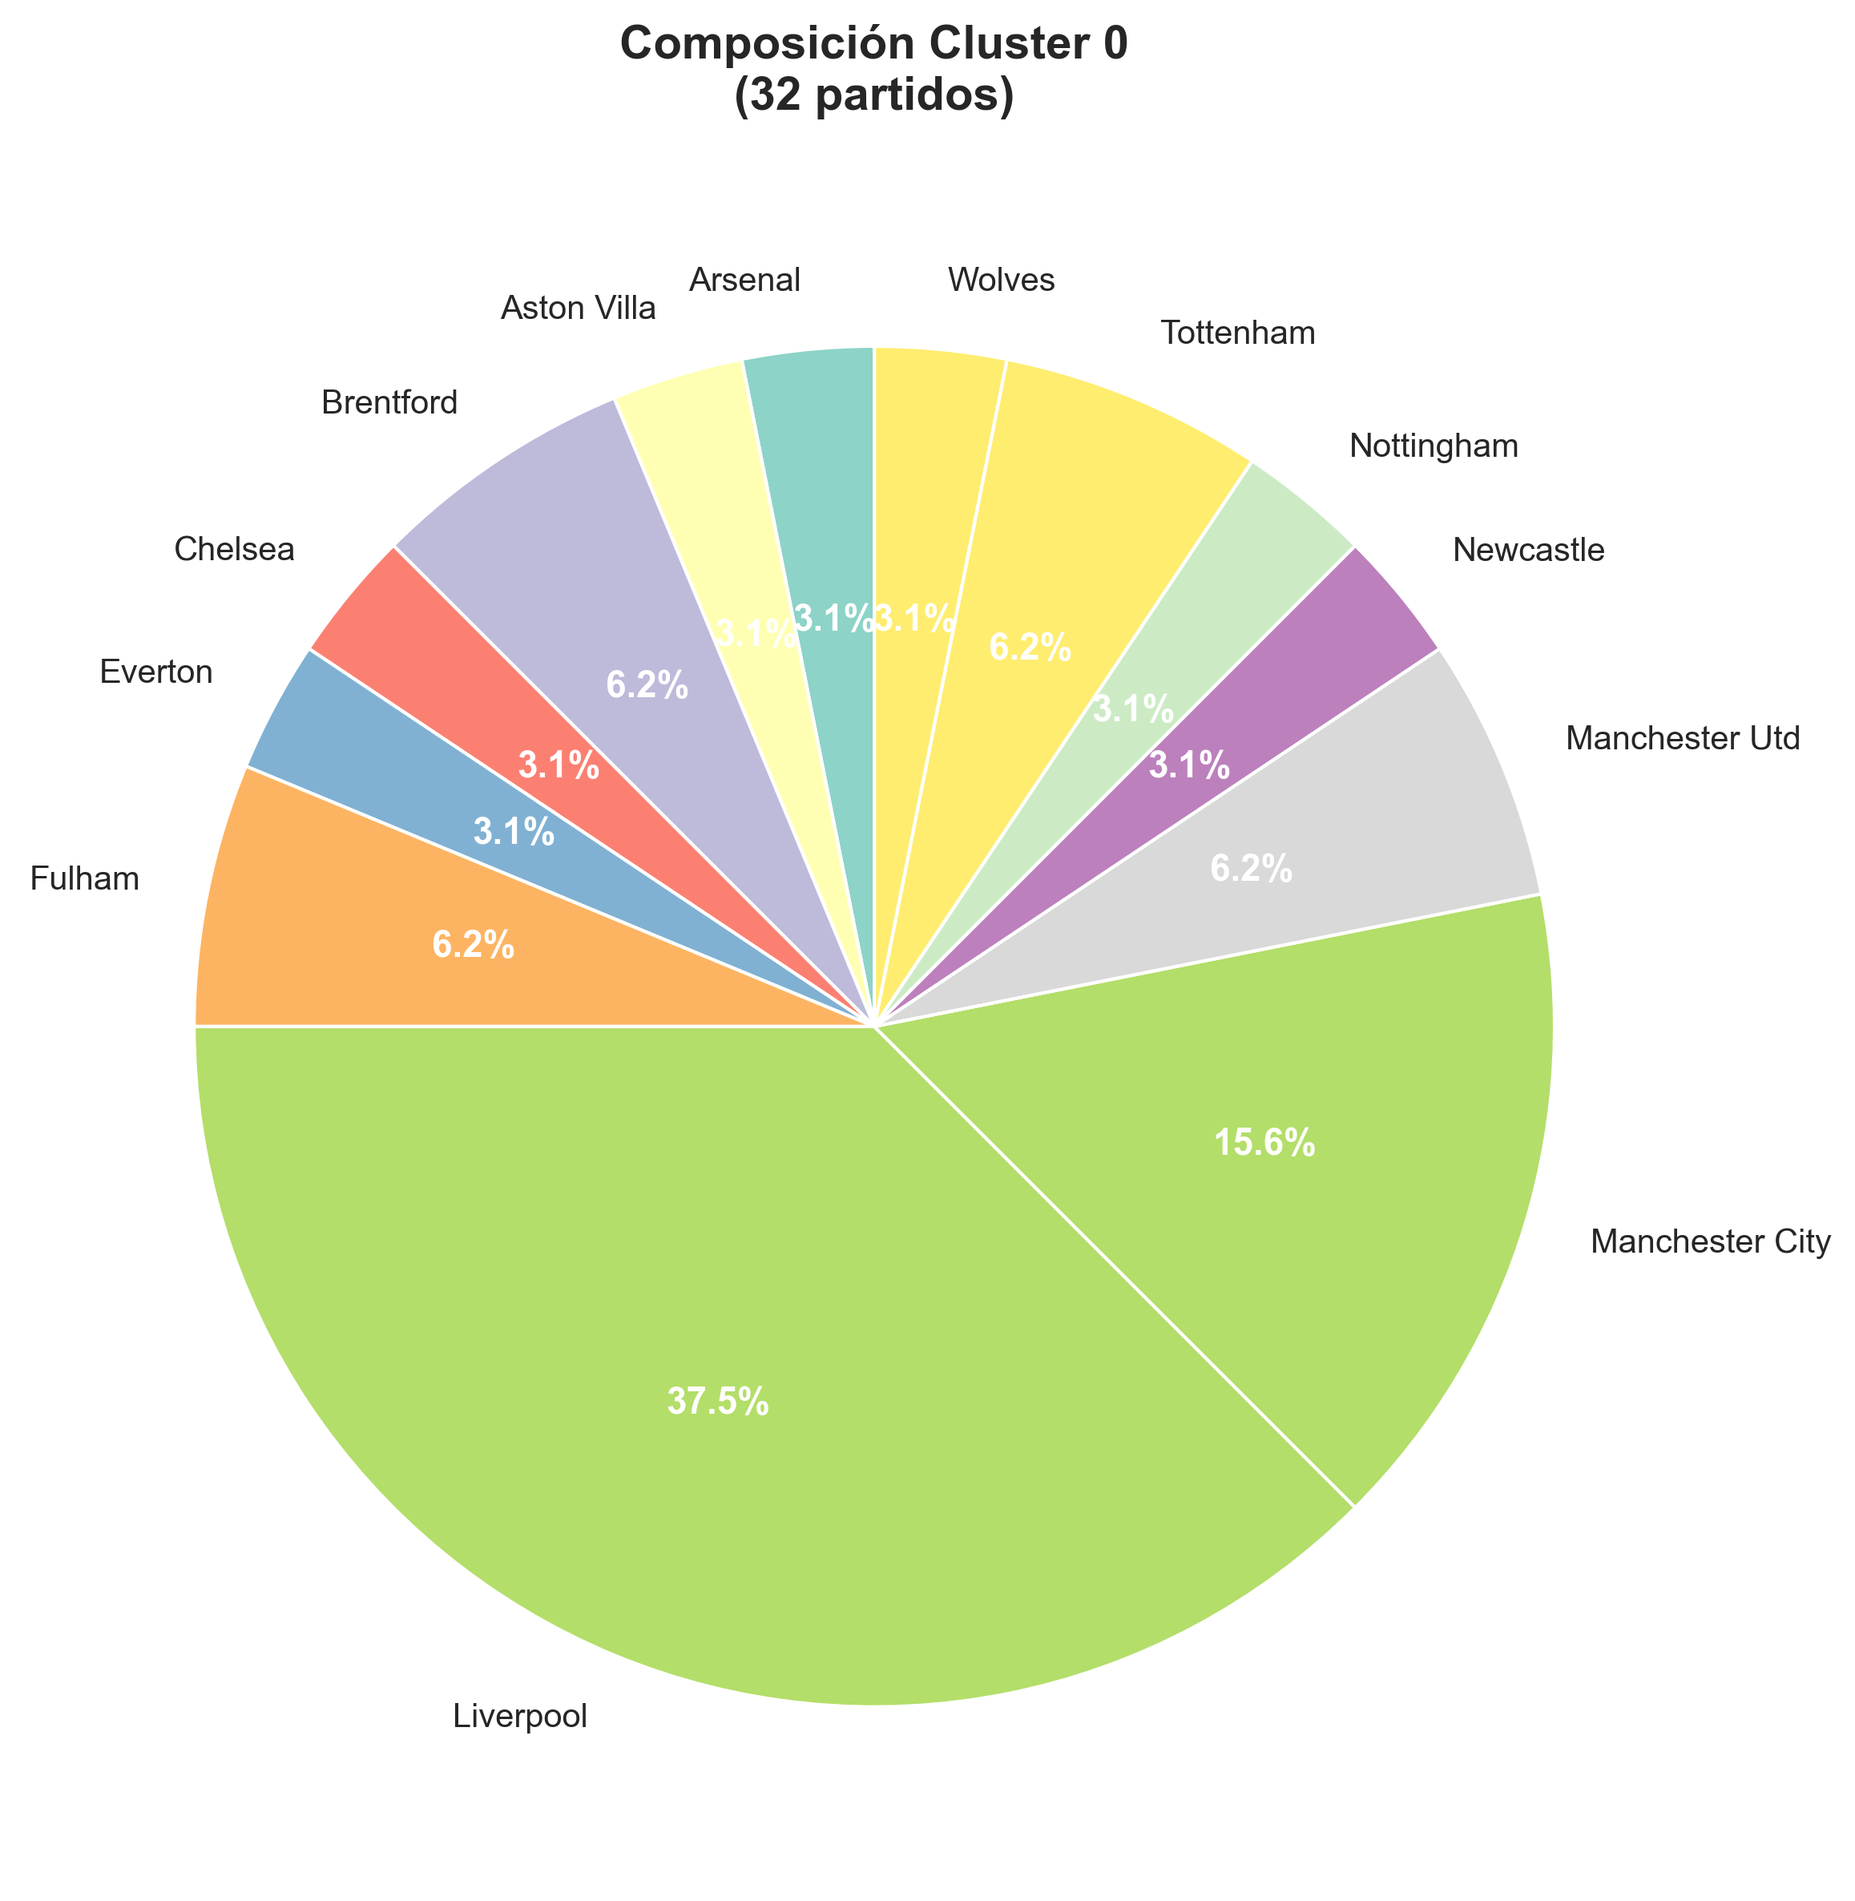
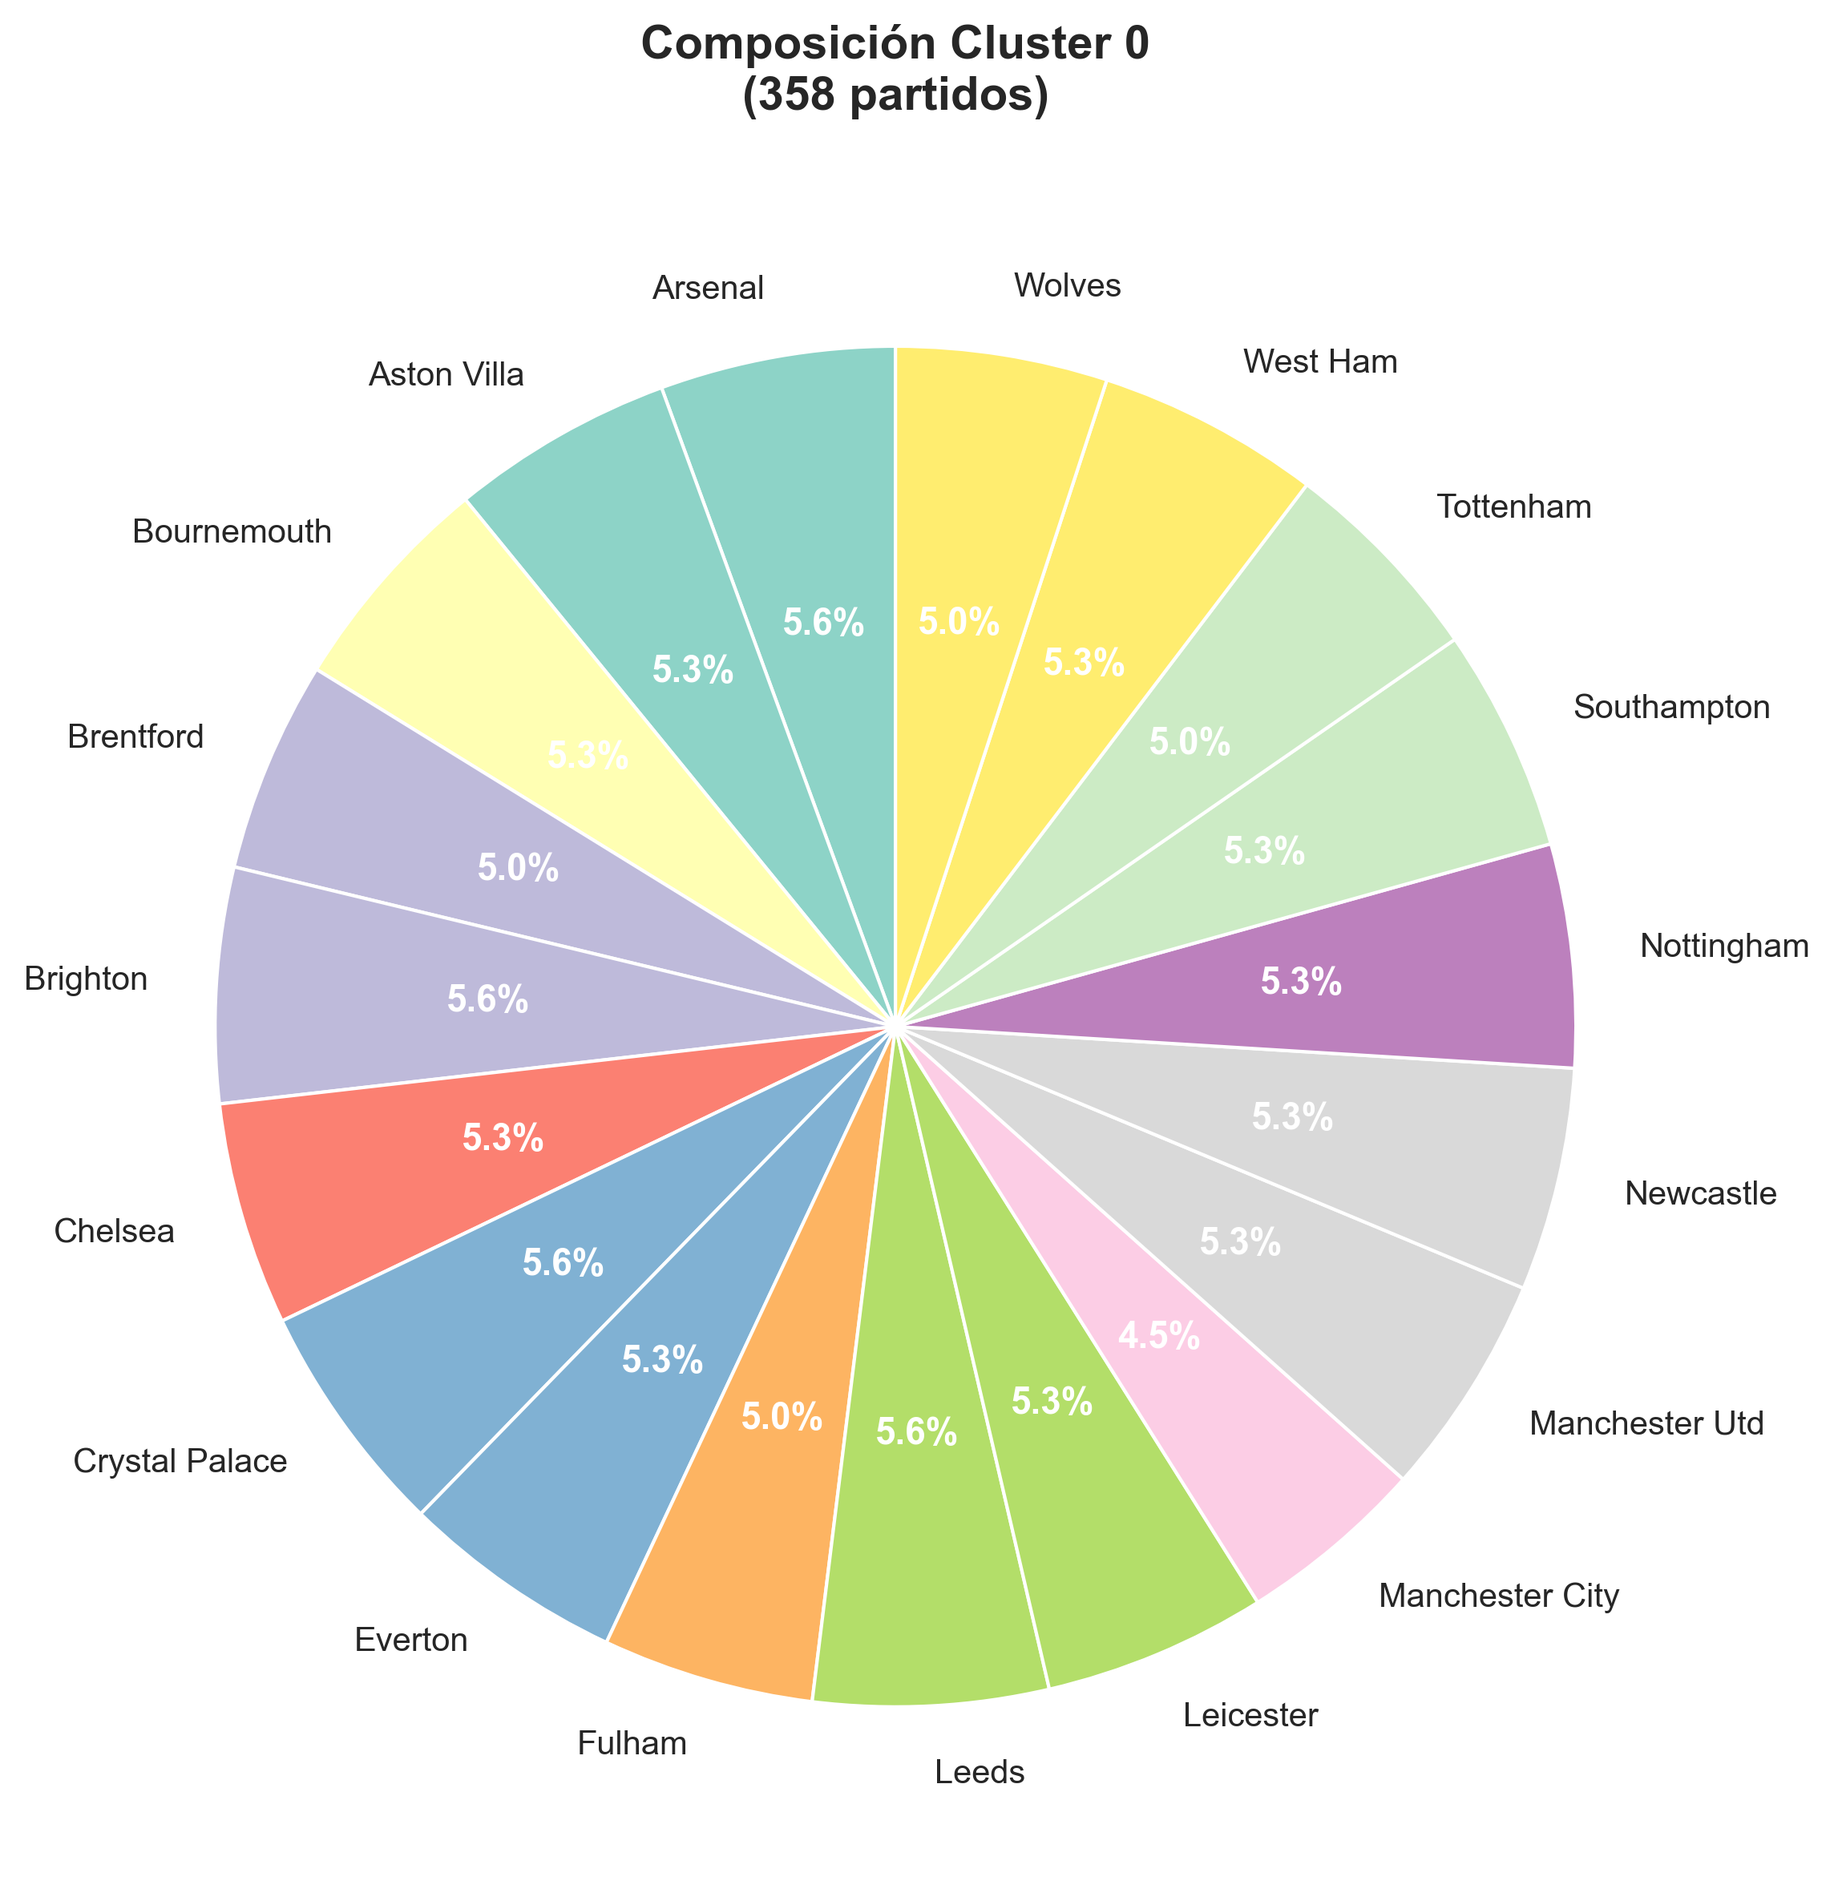
Graficos Arreglados

diff --git a/cluster_analysis_dbscan.py b/cluster_analysis_dbscan.py
@@ -1,0 +1,202 @@
+import pandas as pd
+import matplotlib.pyplot as plt
+import numpy as np
+import os
+
+def analyze_clusters_dbscan():
+    """
+    Analiza las características principales de cada cluster de partidos para DBSCAN.
+    """
+    
+    # Leer datos de DBSCAN (usar 0.9 PCA que tiene cluster -1)
+    df = pd.read_csv('data/clustered_matches_dbscan_0_9_PCA.csv')
+    stats_df = pd.read_csv('data/second_round_with_stats.csv')
+    merged_df = df.merge(stats_df, on=['home_team', 'away_team'], how='left')
+    
+    # Incluir todos los clusters, incluyendo ruido (-1)
+    all_clusters = sorted(df['cluster'].unique())
+    
+    print("=" * 80)
+    print("ANÁLISIS DE CARACTERÍSTICAS POR CLUSTER - DBSCAN")
+    print("=" * 80)
+    
+    # Almacenar datos para el gráfico
+    cluster_data = {}
+    
+    # Analizar cada cluster, incluyendo ruido (-1)
+    for cluster in all_clusters:
+        cluster_matches = merged_df[merged_df['cluster'] == cluster]
+        
+        # Calcular 4 características principales
+        total_goals = (cluster_matches['goals_self_home'] + cluster_matches['goals_rival_home']).mean()
+        possession_diff = abs(cluster_matches['avg_posesion_self_home'] - cluster_matches['avg_posesion_rival_home']).mean()
+        total_shots = cluster_matches['tiros_al_arcototales_home'].mean()
+        # Posesión promedio del equipo local
+        possession_avg = cluster_matches['avg_posesion_self_home'].mean()
+        
+        # Guardar datos
+        cluster_data[cluster] = {
+            'total_matches': len(cluster_matches),
+            'total_goals': total_goals,
+            'possession_diff': possession_diff,
+            'total_shots': total_shots,
+            'possession_avg': possession_avg
+        }
+        
+        # Etiqueta para el cluster
+        if cluster == -1:
+            cluster_label = "RUIDO (Outliers)"
+        else:
+            cluster_label = f"CLUSTER {cluster}"
+        
+        print(f"\n{cluster_label}")
+        print("-" * 60)
+        print(f"Total de partidos: {len(cluster_matches)}")
+        print()
+        
+        # Característica 1: Goles promedio
+        print(f"1. Goles promedio por partido: {total_goals:.2f}")
+        if total_goals >= 3.0:
+            print(f"   Partidos con alta producción ofensiva")
+        elif total_goals >= 2.0:
+            print(f"   Partidos con producción ofensiva moderada")
+        else:
+            print(f"   Partidos con baja producción ofensiva")
+        print()
+        
+        # Característica 2: Diferencia de posesión
+        print(f"2. Diferencia de posesión promedio: {possession_diff:.2f}%")
+        if possession_diff >= 15:
+            print(f"   Partidos con dominio claro de un equipo")
+        elif possession_diff >= 8:
+            print(f"   Partidos con ligera ventaja en posesión")
+        else:
+            print(f"   Partidos equilibrados en posesión")
+        print()
+        
+        # Característica 3: Tiros totales
+        print(f"3. Tiros al arco promedio: {total_shots:.2f}")
+        if total_shots >= 15:
+            print(f"   Partidos con alta intensidad ofensiva")
+        elif total_shots >= 10:
+            print(f"   Partidos con intensidad ofensiva media")
+        else:
+            print(f"   Partidos con baja intensidad ofensiva")
+        print()
+        
+        # Característica 4: Posesión promedio
+        print(f"4. Posesión promedio del equipo local: {possession_avg:.2f}%")
+        if possession_avg >= 55:
+            print(f"   Partidos con dominio de posesión del equipo local")
+        elif possession_avg >= 45:
+            print(f"   Partidos con posesión equilibrada")
+        else:
+            print(f"   Partidos con menor posesión del equipo local")
+        
+        print()
+    
+    return cluster_data, merged_df
+
+def create_individual_characteristic_plots_dbscan(cluster_data):
+    """
+    Crea gráficos individuales para cada característica en una carpeta separada para DBSCAN.
+    """
+    
+    # Crear directorio para los gráficos individuales de DBSCAN
+    os.makedirs('plots/caracteristicas_individuales', exist_ok=True)
+    
+    clusters = sorted(cluster_data.keys())
+    # Crear etiquetas, mostrando "Ruido" para cluster -1
+    cluster_labels = [f'Ruido' if c == -1 else f'Cluster {c}' for c in clusters]
+    
+    # Extraer datos
+    goals = [cluster_data[c]['total_goals'] for c in clusters]
+    possession_diff = [cluster_data[c]['possession_diff'] for c in clusters]
+    shots = [cluster_data[c]['total_shots'] for c in clusters]
+    possession_avg = [cluster_data[c]['possession_avg'] for c in clusters]
+    
+    # Colores: usar gris para ruido, otros colores para clusters normales
+    colors = []
+    for c in clusters:
+        if c == -1:
+            colors.append('#808080')  # Gris para ruido
+        else:
+            colors.append(['#FF6B6B', '#4ECDC4', '#45B7D1', '#96CEB4', '#FFEAA7'][c % 5])
+    
+    # 1. Gráfico de Goles promedio
+    fig, ax = plt.subplots(figsize=(10, 6))
+    bars = ax.bar(cluster_labels, goals, color=colors[:len(clusters)])
+    ax.set_title('Goles Promedio por Partido - DBSCAN', fontweight='bold', fontsize=14)
+    ax.set_xlabel('Cluster', fontsize=12)
+    ax.set_ylabel('Goles', fontsize=12)
+    ax.grid(axis='y', alpha=0.3)
+    for bar, val in zip(bars, goals):
+        ax.text(bar.get_x() + bar.get_width()/2, bar.get_height() + 0.05, 
+                f'{val:.2f}', ha='center', va='bottom', fontsize=10, fontweight='bold')
+    plt.tight_layout()
+    plt.savefig('plots/caracteristicas_individuales/1_goles_promedio_dbscan.png', dpi=300, bbox_inches='tight')
+    plt.close()
+    
+    # 2. Gráfico de Diferencia de posesión
+    fig, ax = plt.subplots(figsize=(10, 6))
+    bars = ax.bar(cluster_labels, possession_diff, color=colors[:len(clusters)])
+    ax.set_title('Diferencia de Posesión Promedio - DBSCAN', fontweight='bold', fontsize=14)
+    ax.set_xlabel('Cluster', fontsize=12)
+    ax.set_ylabel('Diferencia (%)', fontsize=12)
+    ax.grid(axis='y', alpha=0.3)
+    for bar, val in zip(bars, possession_diff):
+        ax.text(bar.get_x() + bar.get_width()/2, bar.get_height() + 0.3, 
+                f'{val:.2f}', ha='center', va='bottom', fontsize=10, fontweight='bold')
+    plt.tight_layout()
+    plt.savefig('plots/caracteristicas_individuales/2_diferencia_posesion_dbscan.png', dpi=300, bbox_inches='tight')
+    plt.close()
+    
+    # 3. Gráfico de Tiros al arco
+    fig, ax = plt.subplots(figsize=(10, 6))
+    bars = ax.bar(cluster_labels, shots, color=colors[:len(clusters)])
+    ax.set_title('Tiros al Arco Promedio - DBSCAN', fontweight='bold', fontsize=14)
+    ax.set_xlabel('Cluster', fontsize=12)
+    ax.set_ylabel('Tiros', fontsize=12)
+    ax.grid(axis='y', alpha=0.3)
+    for bar, val in zip(bars, shots):
+        ax.text(bar.get_x() + bar.get_width()/2, bar.get_height() + 0.1, 
+                f'{val:.2f}', ha='center', va='bottom', fontsize=10, fontweight='bold')
+    plt.tight_layout()
+    plt.savefig('plots/caracteristicas_individuales/3_tiros_al_arco_dbscan.png', dpi=300, bbox_inches='tight')
+    plt.close()
+    
+    # 4. Gráfico de Posesión promedio
+    fig, ax = plt.subplots(figsize=(10, 6))
+    bars = ax.bar(cluster_labels, possession_avg, color=colors[:len(clusters)])
+    ax.set_title('Posesión Promedio del Equipo Local - DBSCAN', fontweight='bold', fontsize=14)
+    ax.set_xlabel('Cluster', fontsize=12)
+    ax.set_ylabel('Posesión (%)', fontsize=12)
+    ax.grid(axis='y', alpha=0.3)
+    for bar, val in zip(bars, possession_avg):
+        ax.text(bar.get_x() + bar.get_width()/2, bar.get_height() + 0.5, 
+                f'{val:.2f}', ha='center', va='bottom', fontsize=10, fontweight='bold')
+    plt.tight_layout()
+    plt.savefig('plots/caracteristicas_individuales/4_posesion_dbscan.png', dpi=300, bbox_inches='tight')
+    plt.close()
+    
+    print("\n" + "=" * 80)
+    print("GRÁFICOS INDIVIDUALES GENERADOS - DBSCAN")
+    print("=" * 80)
+    print("Carpeta: plots/caracteristicas_individuales/")
+    print("  - 1_goles_promedio_dbscan.png")
+    print("  - 2_diferencia_posesion_dbscan.png")
+    print("  - 3_tiros_al_arco_dbscan.png")
+    print("  - 4_posesion_dbscan.png")
+    print("=" * 80)
+
+if __name__ == "__main__":
+    print("INICIANDO ANÁLISIS DE CLUSTERS - DBSCAN...")
+    print()
+    
+    cluster_data, merged_df = analyze_clusters_dbscan()
+    create_individual_characteristic_plots_dbscan(cluster_data)
+    
+    print("\n" + "=" * 80)
+    print("ANÁLISIS COMPLETADO - DBSCAN")
+    print("=" * 80)
+

diff --git a/plots.py b/plots.py
@@ -34,10 +34,17 @@ matrix = np.array(team_cluster_matrix)
 sns.set_style("whitegrid")
 plt.rcParams['figure.facecolor'] = 'white'
 
+# Función para obtener etiqueta de cluster
+def get_cluster_label(cluster):
+    if cluster == -1:
+        return 'Ruido'
+    else:
+        return f'Cluster {cluster}'
+
 # 1. HEATMAP
 fig, ax = plt.subplots(figsize=(10, max(8, len(team_names) * 0.4)))
 sns.heatmap(matrix, annot=True, fmt='d', cmap='YlOrRd', 
-            xticklabels=[f'Cluster {c}' for c in clusters],
+            xticklabels=[get_cluster_label(c) for c in clusters],
             yticklabels=team_names, cbar_kws={'label': 'Número de Partidos'},
             linewidths=0.5, ax=ax)
 ax.set_title('Distribución de Equipos por Cluster (Mapa de Calor)', fontsize=14, fontweight='bold', pad=20)
@@ -56,7 +63,7 @@ colors = plt.cm.Set3(np.linspace(0, 1, len(clusters)))
 
 for i, cluster in enumerate(clusters):
     values = matrix[:, i]
-    ax.bar(x_pos, values, bottom=bottom, label=f'Cluster {cluster}', 
+    ax.bar(x_pos, values, bottom=bottom, label=get_cluster_label(cluster), 
            color=colors[i], edgecolor='white', linewidth=1)
     bottom += values
 
@@ -90,7 +97,7 @@ ax.set_xlabel('Cluster', fontsize=12, fontweight='bold')
 ax.set_ylabel('Número de Partidos', fontsize=12, fontweight='bold')
 ax.set_title('Composición de Clusters por Equipo (Barras Apiladas)', fontsize=14, fontweight='bold', pad=20)
 ax.set_xticks(x_pos)
-ax.set_xticklabels([f'Cluster {c}' for c in clusters])
+ax.set_xticklabels([get_cluster_label(c) for c in clusters])
 ax.legend(title='Equipo', bbox_to_anchor=(1.05, 1), loc='upper left', fontsize=8)
 ax.grid(axis='y', alpha=0.3)
 plt.tight_layout()
@@ -106,7 +113,7 @@ x_pos = np.arange(len(team_names))
 for i, cluster in enumerate(clusters):
     offset = (i - n_clusters/2 + 0.5) * bar_width
     values = matrix[:, i]
-    ax.bar(x_pos + offset, values, bar_width, label=f'Cluster {cluster}',
+    ax.bar(x_pos + offset, values, bar_width, label=get_cluster_label(cluster),
            color=colors[i], edgecolor='white', linewidth=1)
 
 ax.set_xlabel('Equipo', fontsize=12, fontweight='bold')
@@ -130,7 +137,7 @@ bottom = np.zeros(len(team_names))
 
 for i, cluster in enumerate(clusters):
     values = matrix_pct[:, i]
-    ax.bar(x_pos, values, bottom=bottom, label=f'Cluster {cluster}',
+    ax.bar(x_pos, values, bottom=bottom, label=get_cluster_label(cluster),
            color=colors[i], edgecolor='white', linewidth=1)
     bottom += values
 
@@ -161,10 +168,10 @@ for i, cluster in enumerate(clusters):
     if len(sizes) > 0:
         axes[i].pie(sizes, labels=labels, autopct='%1.1f%%', startangle=90,
                    colors=plt.cm.Set3(np.linspace(0, 1, len(sizes))))
-        axes[i].set_title(f'Composición Cluster {cluster}', fontsize=12, fontweight='bold')
+        axes[i].set_title(f'Composición {get_cluster_label(cluster)}', fontsize=12, fontweight='bold')
     else:
         axes[i].text(0.5, 0.5, 'Sin Datos', ha='center', va='center')
-        axes[i].set_title(f'Composición Cluster {cluster}', fontsize=12, fontweight='bold')
+        axes[i].set_title(f'Composición {get_cluster_label(cluster)}', fontsize=12, fontweight='bold')
 
 plt.tight_layout()
 plt.savefig('plots/clustering_nuevo/cluster_pie_charts.png', dpi=300, bbox_inches='tight')
@@ -174,9 +181,9 @@ plt.close()
 # Create directory for individual cluster plots
 os.makedirs('plots/clustering_nuevo/clusters_individuales', exist_ok=True)
 
-for cluster in clusters:
+for i, cluster in enumerate(clusters):
     fig, ax = plt.subplots(figsize=(10, 8))
-    cluster_data = matrix[:, cluster]
+    cluster_data = matrix[:, i]  # Usar índice i en lugar de cluster
     
     # Only show teams with matches in this cluster
     mask = cluster_data > 0
@@ -195,13 +202,16 @@ for cluster in clusters:
             autotext.set_fontweight('bold')
             autotext.set_fontsize(11)
         
-        ax.set_title(f'Composición Cluster {cluster}\n({int(cluster_data.sum())} partidos)', 
+        cluster_label = get_cluster_label(cluster)
+        ax.set_title(f'Composición {cluster_label}\n({int(cluster_data.sum())} partidos)', 
                     fontsize=14, fontweight='bold', pad=20)
     else:
+        cluster_label = get_cluster_label(cluster)
         ax.text(0.5, 0.5, 'Sin Datos', ha='center', va='center', fontsize=16)
-        ax.set_title(f'Composición Cluster {cluster}', fontsize=14, fontweight='bold', pad=20)
+        ax.set_title(f'Composición {cluster_label}', fontsize=14, fontweight='bold', pad=20)
     
     plt.tight_layout()
+    # Usar el valor del cluster para el nombre del archivo (puede ser -1)
     plt.savefig(f'plots/clustering_nuevo/clusters_individuales/cluster_{cluster}.png', dpi=300, bbox_inches='tight')
     plt.close()
 
